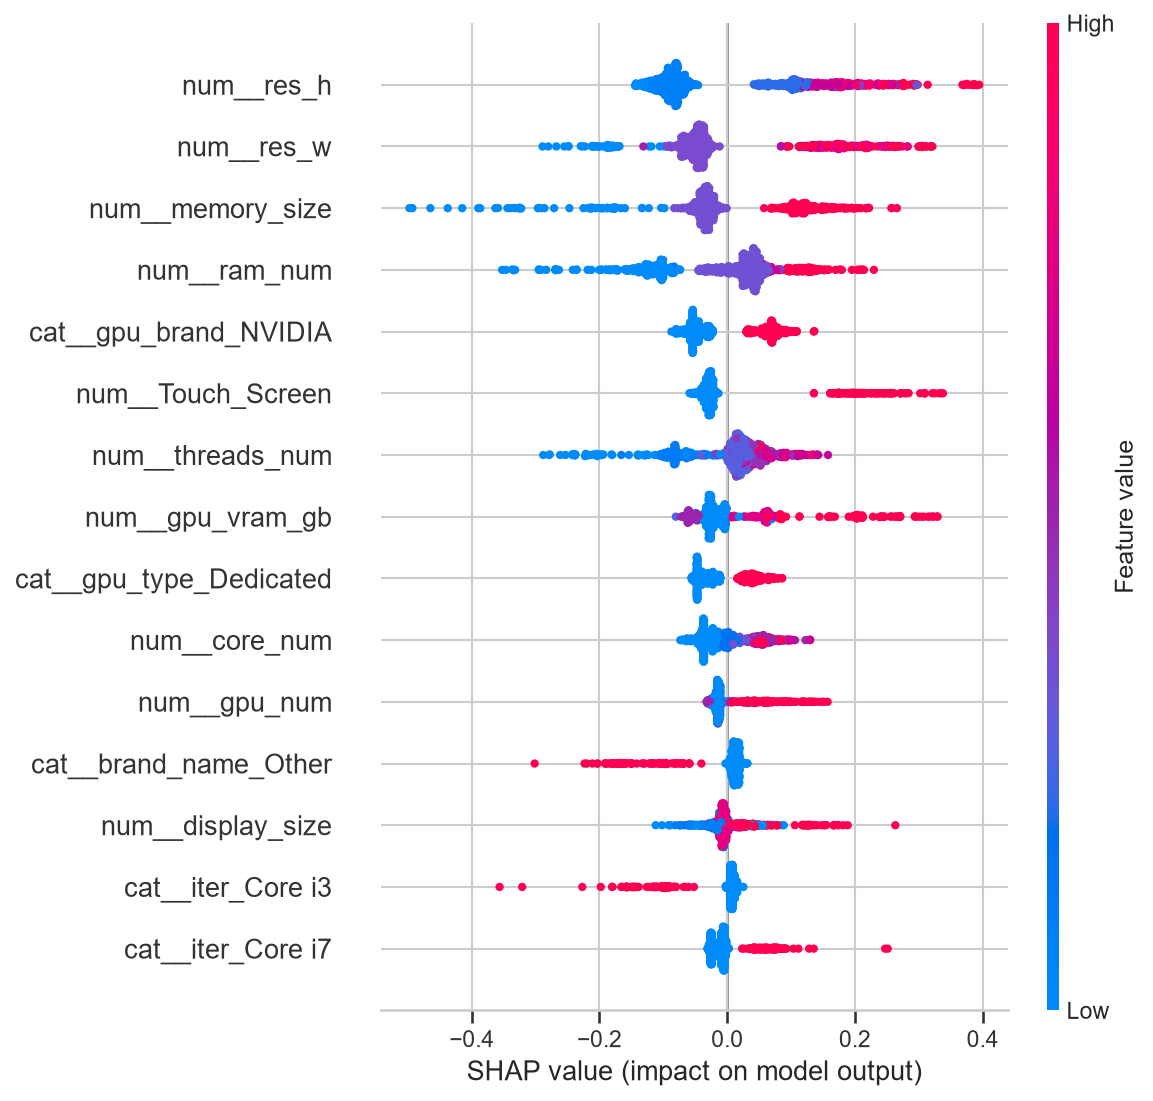
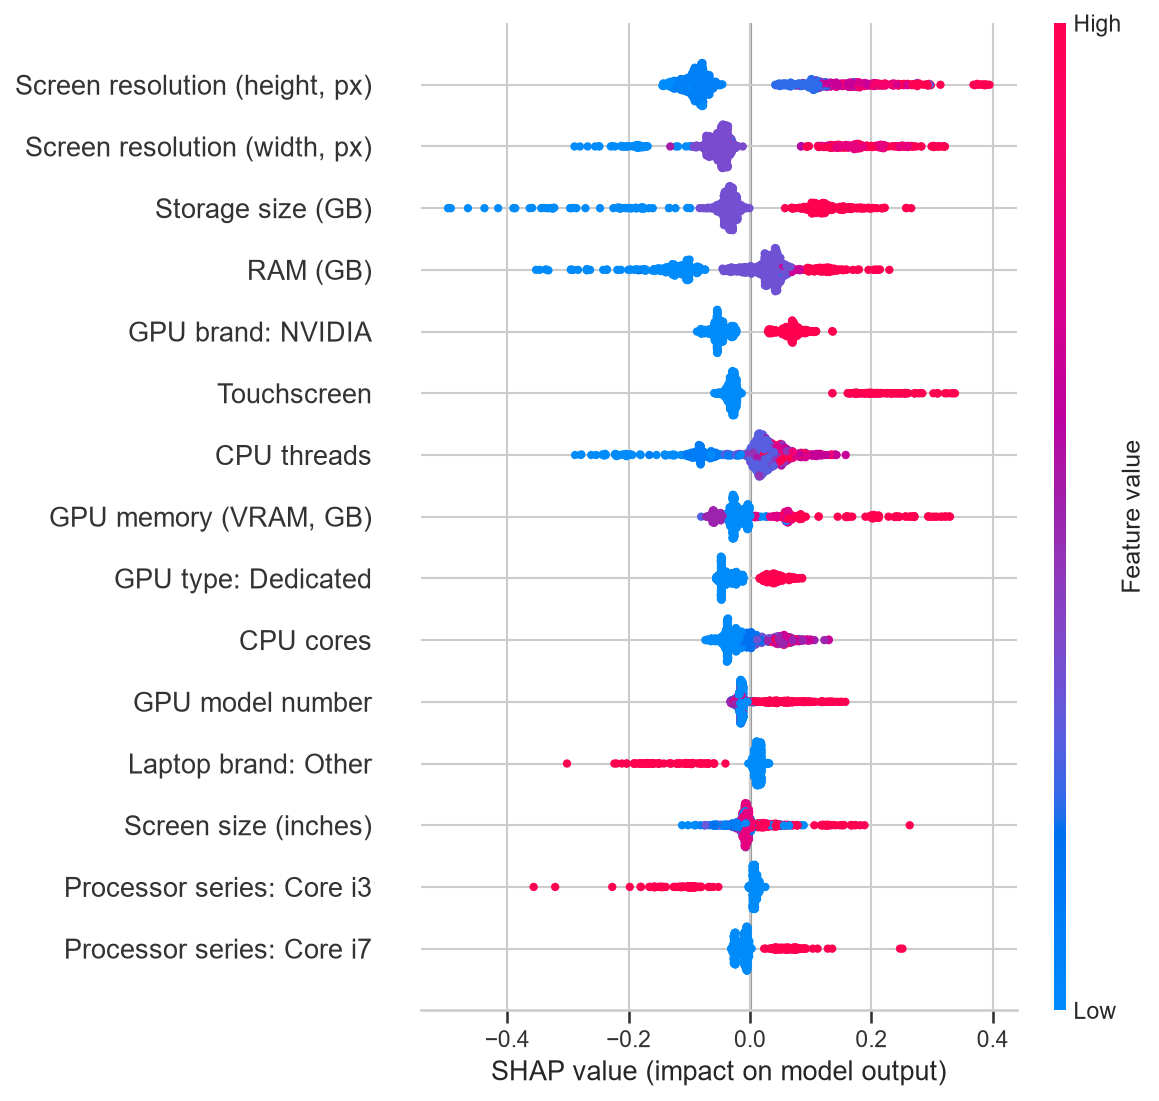
Merged resolution columns in SHAP chart

diff --git a/README.md b/README.md
@@ -51,7 +51,7 @@ The ranges are calibrated on the same listings, so on genuinely new laptops fewe
 
 ## What drives price (SHAP)
 
-- Screen resolution ranks first, followed by CPU series, brand, GPU brand, storage and RAM.
+- Screen resolution (width, height and megapixels combined) ranks first by a wide margin, followed by CPU series, brand, GPU brand, storage and RAM.
 - Very small storage pulls the prediction down hard; the highest resolutions push it up by up to roughly 50%.
 - GPU features overlap (VRAM and GPU model number correlate at 0.92), so SHAP splits the credit between them.
 - Touchscreen laptops are 11% of the listings and have a much higher median price (₹127,990 vs ₹63,289). Treat this as a marker of higher-end models, not a causal effect.
